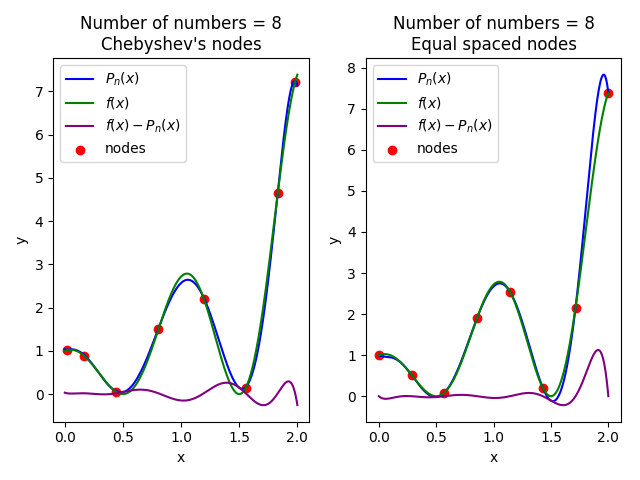
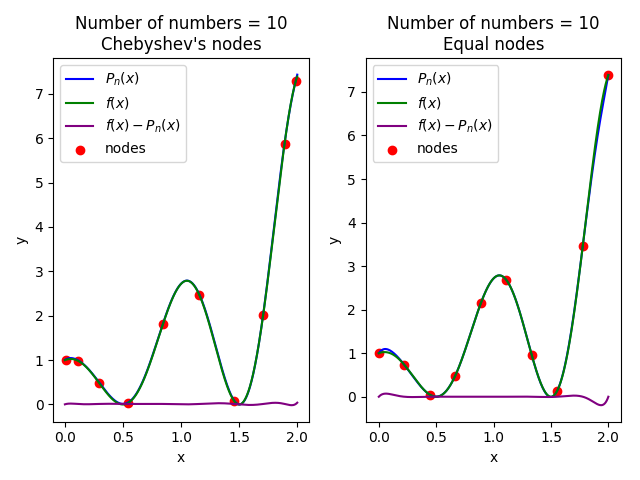
object-oriented programming is strong!

diff --git a/laba_4.py b/laba_4.py
@@ -7,37 +7,125 @@ from num_meth_2 import sign
 
 np.set_printoptions(linewidth = 120)
 
-N = 8
+N = 10
 a, b = 0, 2
 y = 2*np.exp(2)/3
 y_max = np.exp(2)
+EPS = pow(10, -10)
+polinom_str = '$P_n (x)$'
+f_str = '$f (x)$'
+polinom_f = '$f(x) - P_n (x)$'
 
+def f(x):
+	return np.cos(np.pi*x)**2*np.exp(x)
 
 class Interpolation:
 
-	def __init__(self, a, b, N, f, nodes_type = 'equal'):
+	def __init__(self, a, b, N, func, nodes_type = 'equal'):
+		self.__a = a
+		self.__b = b
+		self._func = func
+		self.__string = nodes_type
 		if nodes_type == 'equal':
-			self.__x = np.linspace(a, b, N)
+			self.__x = np.array([a + ((b-a)*k)/(N-1) for k in range(N)])
+			self.__string = 'Equal nodes'
 		elif nodes_type == 'cheb':
 			self.__x = np.array([(a+b)/2 - ((b-a)/2)*cheb(k,N) for k in range(N)])
+			self.__string = "Chebyshev's nodes"
 		else:
 			print("wrong type of nodes")
+		
+		self.__y = np.array([func(x) for x in self.__x])
+		self.__N = N
+		self.__coefs = self._create_coefs(self.__N)
+		self.__polinom = Polinom(self.__coefs, self.__x)
 
-		self.__y = np.array([f(x) for x in __x])
+	def __call__(self, x0):
+		return self.__polinom._evaluate(x0)
 
+	def __str__(self):
+		string = "x = {}\ny = {}\nN = {}".format(self.__x, self.__y, self.__N)
+		return string
+
+	def _create_coefs(self, N):
+		M = np.zeros((N, N+1))
+		M[:,0] = self.__x
+		M[:,1] = self.__y
+		for j in range(2, N+1):
+			for i in range(N-j+1):
+				M[i,j] = (M[i+1,j-1] - M[i, j-1])/(M[i+j-1,0] - M[i,0])
+		return M[0,:]
+	
+	def create_canvas(self, sub):
+		plt.subplot(1,2,1+sub)
+		plt.scatter(self.__x, self.__y, c = 'red', label = 'nodes')
+		x1_l = np.linspace(self.get_a(), self.get_b(),1000)
+		y1_l = np.array([self(x) for x in x1_l])
+		y2_l = np.array([self._func(x) for x in x1_l])
+		plt.plot(x1_l, y1_l, c = 'blue', label = r''+polinom_str)
+		plt.plot(x1_l, y2_l, c = 'green', label = r''+f_str)
+		plt.plot(x1_l, y1_l-y2_l, c = 'purple', label = r''+polinom_f)
+		plt.title("Number of numbers = " + str(N) + "\n" + self.get_string())
+		plt.xlabel("x")
+		plt.ylabel("y")
+		plt.legend()
+
+	def reverse_interpolation(self, y0):
+		x = useless_dichotomy(1.5, 2., self.__polinom, y0, EPS)
+		return x
+
+	#SETTERS AND GETTERS
+	def set_x(self, value):
+		self.__x = value
+	def get_x(self):
+		return self.__x
+	def set_y(self, value):
+		self.__y = value
+	def get_y(self):
+		return self.__y
+	def set_N(self, value):
+		self.__N = value
+	def get_N(self):
+		return self.__N
+	def set_coefs(self, value):
+		self.__coefs = value
+	def get_coefs(self):
+		return self.__coefs
+	def get_a(self):
+		return self.__a
+	def get_b(self):
+		return self.__b
+	def get_string(self):
+		return self.__string
+
+	x = property(get_x, set_x)
+	y = property(get_y, set_y)
+	N = property(get_N, set_N)
+	coefs = property(get_coefs, set_coefs)
+
+class Cheb_nodes_interpolation(Interpolation):
+	
+	def __init__(self, a, b, N, func):
+		Interpolation.__init__(self, a, b, N, func, 'cheb')
+
+class Equal_nodes_interpolation(Interpolation):
+	
+	def __init__(self, a, b, N, func):
+		Interpolation.__init__(self, a, b, N, func)
 
 class Polinom:
 	
 	def __init__(self, coefs, x_list):
 		self.__coefs = coefs
-		self.__x_list = x_list
+		self.__x = x_list
 
 	def _evaluate(self, x0):
 		_sum = self.__coefs[0]
+		#print(self.__coefs)
 		for i in range(1, N+1):
 			_mul = 1
 			for j in range(i-1):
-				_mul *= (x0 - self.__x_list[j])
+				_mul *= (x0 - self.__x[j])
 			_sum += self.__coefs[i]*_mul
 		return _sum
 
@@ -47,83 +135,30 @@ class Polinom:
 		except IndexError:
 			print("Wrong index")
 
+	def __call__(self, x0):
+		return self._evaluate(x0)
 
 def useless_dichotomy(a, b, polinom, y,eps):
     while abs(a - b) > eps:
         x0 = (a+b)/2
-        print(x0)
-        if sign(polinom._evaluate(x0)-y) == sign(polinom._evaluate(a)-y):
+        if sign(polinom(x0)-y) == sign(polinom(a)-y):
             a = x0
         else:
             b = x0
     print(polinom._evaluate(x0))
     return x0
 
-def reverse_interpolation(x_l, N, y_find):
-	y_l = np.array([f(x) for x in x_l])
-	coefs = get_coefs(x_l, y_l)
-	polinom = Polinom(coefs, x_l)
-	x = useless_dichotomy(1.5, 2., polinom, y_find, pow(10, -8))
-	print(x)
-
-	
-
-def create_canvas(x_l, y_l, coefs, string, sub):
-	plt.subplot(1,2,1+sub)
-	plt.scatter(x_l, y_l, c = 'red', label = 'nodes')
-	x1_l = np.linspace(a,b,1000)
-	y1_l = np.array([polinom(coefs, x_l, x) for x in x1_l])
-	y2_l = np.array([f(x) for x in x1_l])
-	plt.plot(x1_l, y1_l, c = 'blue', label = r'$P_n (x)$')
-	plt.plot(x1_l, y2_l, c = 'green', label = r'$f (x)$')
-	plt.plot(x1_l, y1_l-y2_l, c = 'purple', label = r'$f(x) - P_n(x)$')
-	plt.title("Number of numbers = " + str(N) + "\n" + string)
-	plt.xlabel("x")
-	plt.ylabel("y")
-	plt.legend()
-
-def interpolation(N, a,b, x_l, string,sub):
-	y_l = np.array([f(x) for x in x_l])
-	coefs = get_coefs(x_l, y_l)
-	create_canvas(x_l, y_l, coefs, string,sub)
-
-
 def cheb(k, n):
 	return np.cos(((2*k+1)*np.pi)/(2*n))
 
-def f(x):
-	return np.cos(np.pi*x)**2*np.exp(x)
-
-def polinom(coefs, x_l, x):
-	_sum = coefs[0]
-	for i in range(1, N+1):
-		_mul = 1
-		for j in range(i-1):
-			_mul *= (x - x_l[j])
-		_sum += coefs[i]*_mul
-	return _sum
-
-def get_coefs(x_l, y_l):
-	M = np.zeros((N, N+1))
-	M[:,0] = x_l
-	M[:,1] = y_l
-	for j in range(2, N+1):
-		for i in range(N-j+1):
-			M[i,j] = (M[i+1,j-1] - M[i, j-1])/(M[i+j-1,0] - M[i,0])
-	return M[0,:]
-
-
-
 def main():
-	x_cheb = np.array([(a+b)/2 - ((b-a)/2)*cheb(k,N) for k in range(N)])
-	x_equal_spaced = np.linspace(a,b,N)
-	print(y)
-	reverse_interpolation(x_equal_spaced, N, y)
+	cheb1 = Cheb_nodes_interpolation(a, b, N, f)
+	equal = Equal_nodes_interpolation(a, b, N, f)
 	plt.figure("Interpolation")
-	interpolation(N, a, b, x_cheb, "Chebyshev's nodes",0)
-	#plt.grid(True)
-	interpolation(N, a, b, x_equal_spaced, "Equal spaced nodes",1)
-	#plt.grid(True)
+	cheb1.create_canvas(0)
+	equal.create_canvas(1)
+	x = equal.reverse_interpolation(y)
+	print(x, f(x), y)
 	plt.tight_layout()
 	plt.savefig("picture.png")
 	plt.show()
